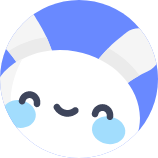
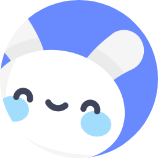
some refactoring, turn borders into shadws

diff --git a/src/pages/apps.js b/src/pages/apps.js
@@ -17,31 +17,32 @@ export default class Apps extends React.Component{
 
                     <div className="app">
                         <Link to={"/leeloo/"}>
-                        <img src={require("../images/leeloo/app.png")}/>
+                        <img src={require("../images/leeloo/app.png")} style={{boxShadow: "0px 0px 5px 1px rgba(105, 137, 255, 0.4)", borderRadius: "50%"}}/>
                         <div className="appContent">
                             <h1>Leeloo AAC - Autism Speech App</h1>
                             <p>Helps non-verbal kids to communicate with their parents, teachers and friends. <br/>
-                            <Link to="/leeloo/" style={{color: "#6989FF"}}>Learn more..</Link></p>
-                        </div>
-                        </Link>
-                    </div>
-                    
-                    <div className="app">
-                        <Link to={"/huni/"}>
-                        <img src={require("../images/huni/huni.png")}/>
-                        <div className="appContent">
-                            <h1>Huni - Delayed Speech Therapy</h1>
-                            <p>Speech Recognition powered Speech Training SLP App designed for children. <br/>
-                            <Link to="/huni/" style={{color: "#63B2B5"}}>Learn more..</Link></p>
+                            <Link to="/leeloo/" style={{color: "#6989FF"}}>Learn more...</Link></p>
                         </div>
                         </Link>
                     </div>
 
                     <div className="app">
-                        <img src={require("../images/wingo/wingo.png")}/>
+                        <Link to={"/huni/"}>
+                        <img src={require("../images/huni/huni.png")} style={{boxShadow: "0px 0px 5px 1px rgba(99, 178, 181, 0.4)", borderRadius: "50%"}}/>
                         <div className="appContent">
-                            <h1>Wingo - Daily Planner for Kids</h1>
-                            <p>Coming Soon..</p>
+                            <h1>Huni - Delayed Speech Therapy</h1>
+                            <p>Speech Recognition powered Speech Training SLP App designed for children.<br/>
+                            <Link to="/huni/" style={{color: "#63B2B5"}}>Learn more...</Link></p>
+                        </div>
+                        </Link>
+                    </div>
+
+                    <div className="app">
+                        <img src={require("../images/wingo/wingo.png")} style={{boxShadow: "0px 0px 5px 1px rgba(99, 110, 181, 0.4)", borderRadius: "50%"}}/>
+                        <div className="appContent">
+                          <h1>Wingo - Daily Planner for Kids</h1>
+                          <p>Plan your children's day and communicate their tasks better and easier.<br/>
+                          <Link to="/wingo/" style={{color: "#636eb5"}}>Coming Soon</Link></p>
                         </div>
                     </div>
 

diff --git a/src/pages/wingo.js b/src/pages/wingo.js
@@ -11,34 +11,22 @@ export default class Wingo extends React.Component{
     render(){
         return(
             <Layout>
-                <SEO title="Wingo - Daily planner for kids." description="Helps non-verbal kids to communicate with their parents, teachers and friends." />
+              <SEO title="Wingo - Daily planner for kids." description="Helps non-verbal kids to communicate with their parents, teachers and friends." />
 
-                <div className="section">
-          <div className="sectionDescription right">
-            <img src={require("../images/wingo/wingo.png")} style={{width: 100, height: 100, marginBottom: 25}}/>
+              <div className="section">
+                <div className="sectionDescription right">
+                  <img src={require("../images/wingo/wingo.png")} style={{width: 100, height: 100, marginBottom: 25, boxShadow: "0px 0px 5px 1px rgba(99, 110, 181, 0.4)", borderRadius: "50%"}}/>
 
-            <h1 style={{fontSize: 38}}>Plan your childs day with<br/>
-            Wingo App</h1>
+                  <h1 style={{fontSize: 38}}>Plan your childs day with<br/>
+                  Wingo App</h1>
 
-            <p style={{fontSize: 23}}></p>
+                  <p style={{fontSize: 23}}>Plan your children's day and communicate their tasks better and easier.</p>
 
-            <div className="download">
-              <a href="" target="_blank">
-                <img src={require("../images/as.svg")} />
-              </a>
-              <a href="" target="_blank">
-                <img src={require("../images/gp.svg")} />
-              </a>
-            </div>
-          </div>
-
-          <div className="sectionImage right">
-            <div className="sectionBackground right">
-              <img src={require("../images/blob.svg")} className="blob right"/>
-              <img src={require("../images/particals.svg")} className="particals right"/>
-            </div>
-          </div>
-        </div>
+                  <div className="download">
+                    <p to="/wingo/" style={{color: "#636eb5"}}>Coming Soon</p>
+                  </div>
+                </div>
+              </div>
 
             </Layout>
         )

diff --git a/src/components/footer.js b/src/components/footer.js
@@ -17,9 +17,9 @@ const Footer = ({ siteTitle, language }) => (
           <Link to="/team/">{T(language, "awesome_people")}</Link>
         </div>
         <div>
-          <Link to={`/leeloo/`}><img src={require("../images/leeloo/app.png")} style={{width: 80, height: 80, border: "1px solid rgba(105, 137, 255, 0.4)", borderRadius: "50%"}} alt={"leeloo aac"}/></Link>
-          <Link to={`/huni/`}><img src={require("../images/huni/huni.png")} style={{width: 80, height: 80, border: "1px solid rgba(99, 178, 181, 0.4)", borderRadius: "50%"}} alt={"huni"}/></Link>
-          <Link to={`/wingo/`}><img src={require("../images/wingo/wingo.png")} style={{width: 80, height: 80,  border: "1px solid rgba(99, 110, 181, 0.4)", borderRadius: "50%"}} alt={"wingo"}/></Link>
+          <Link to={`/leeloo/`}><img src={require("../images/leeloo/app.png")} style={{width: 80, height: 80, boxShadow: "0px 0px 5px 1px rgba(105, 137, 255, 0.4)", borderRadius: "50%"}} alt={"leeloo aac"}/></Link>
+          <Link to={`/huni/`}><img src={require("../images/huni/huni.png")} style={{width: 80, height: 80, boxShadow: "0px 0px 5px 1px rgba(99, 178, 181, 0.4)", borderRadius: "50%"}} alt={"huni"}/></Link>
+          <Link to={`/wingo/`}><img src={require("../images/wingo/wingo.png")} style={{width: 80, height: 80, boxShadow: "0px 0px 5px 1px rgba(99, 110, 181, 0.4)", borderRadius: "50%"}} alt={"wingo"}/></Link>
         </div>
       </div>
       <div className="footerLinks">

diff --git a/src/pages/leeloo.js b/src/pages/leeloo.js
@@ -18,7 +18,7 @@ class IndexPage extends React.Component {
         <SEO title="Leeloo AAC" description="Helps non-verbal kids to communicate with their parents, teachers and friends."/>
         <div className="section">
           <div className="sectionDescription right">
-            <img src={require("../images/leeloo/app.png")} style={{width: 100, height: 100, marginBottom: 25}}/>
+            <img src={require("../images/leeloo/app.png")} style={{width: 100, height: 100, marginBottom: 25, boxShadow: "0px 0px 5px 1px rgba(105, 137, 255, 0.4)", borderRadius: "50%"}}/>
 
             <h1 style={{fontSize: 38}}>Say hello to<br/>
             Leeloo AAC App</h1>

diff --git a/src/pages/huni.js b/src/pages/huni.js
@@ -18,7 +18,7 @@ class IndexPage extends React.Component {
         <SEO title="Huni AI" description="Helps non-verbal kids to communicate with their parents, teachers and friends."/>
         <div className="section">
           <div className="sectionDescription right">
-            <img src={require("../images/huni/huni.png")} style={{width: 100, height: 100, marginBottom: 25}}/>
+            <img src={require("../images/huni/huni.png")} style={{width: 100, height: 100, marginBottom: 25, boxShadow: "0px 0px 5px 1px rgba(99, 178, 181, 0.4)", borderRadius: "50%"}}/>
 
             <h1 style={{fontSize: 38}}>Learn to speak with<br/>
             Huni App</h1>

diff --git a/src/components/layout.css b/src/components/layout.css
@@ -498,7 +498,7 @@ table tr td:nth-child(1) span{
 }
 
 .sectionDescription p {
-  color: #81869F;
+  color: #5d6382;
 }
 
 .sectionImage {
@@ -781,11 +781,13 @@ table tr td:nth-child(1) span{
 }
 
 .appContent h1 {
-  font-size: 32px;
   margin-bottom: 5px;
 }
 
-.appContent p {font-size: 20px;}
+.appContent p {
+  margin-top: 7px;
+  color: #5d6382;
+}
 
 .appContent a {text-decoration: underline;}
 
